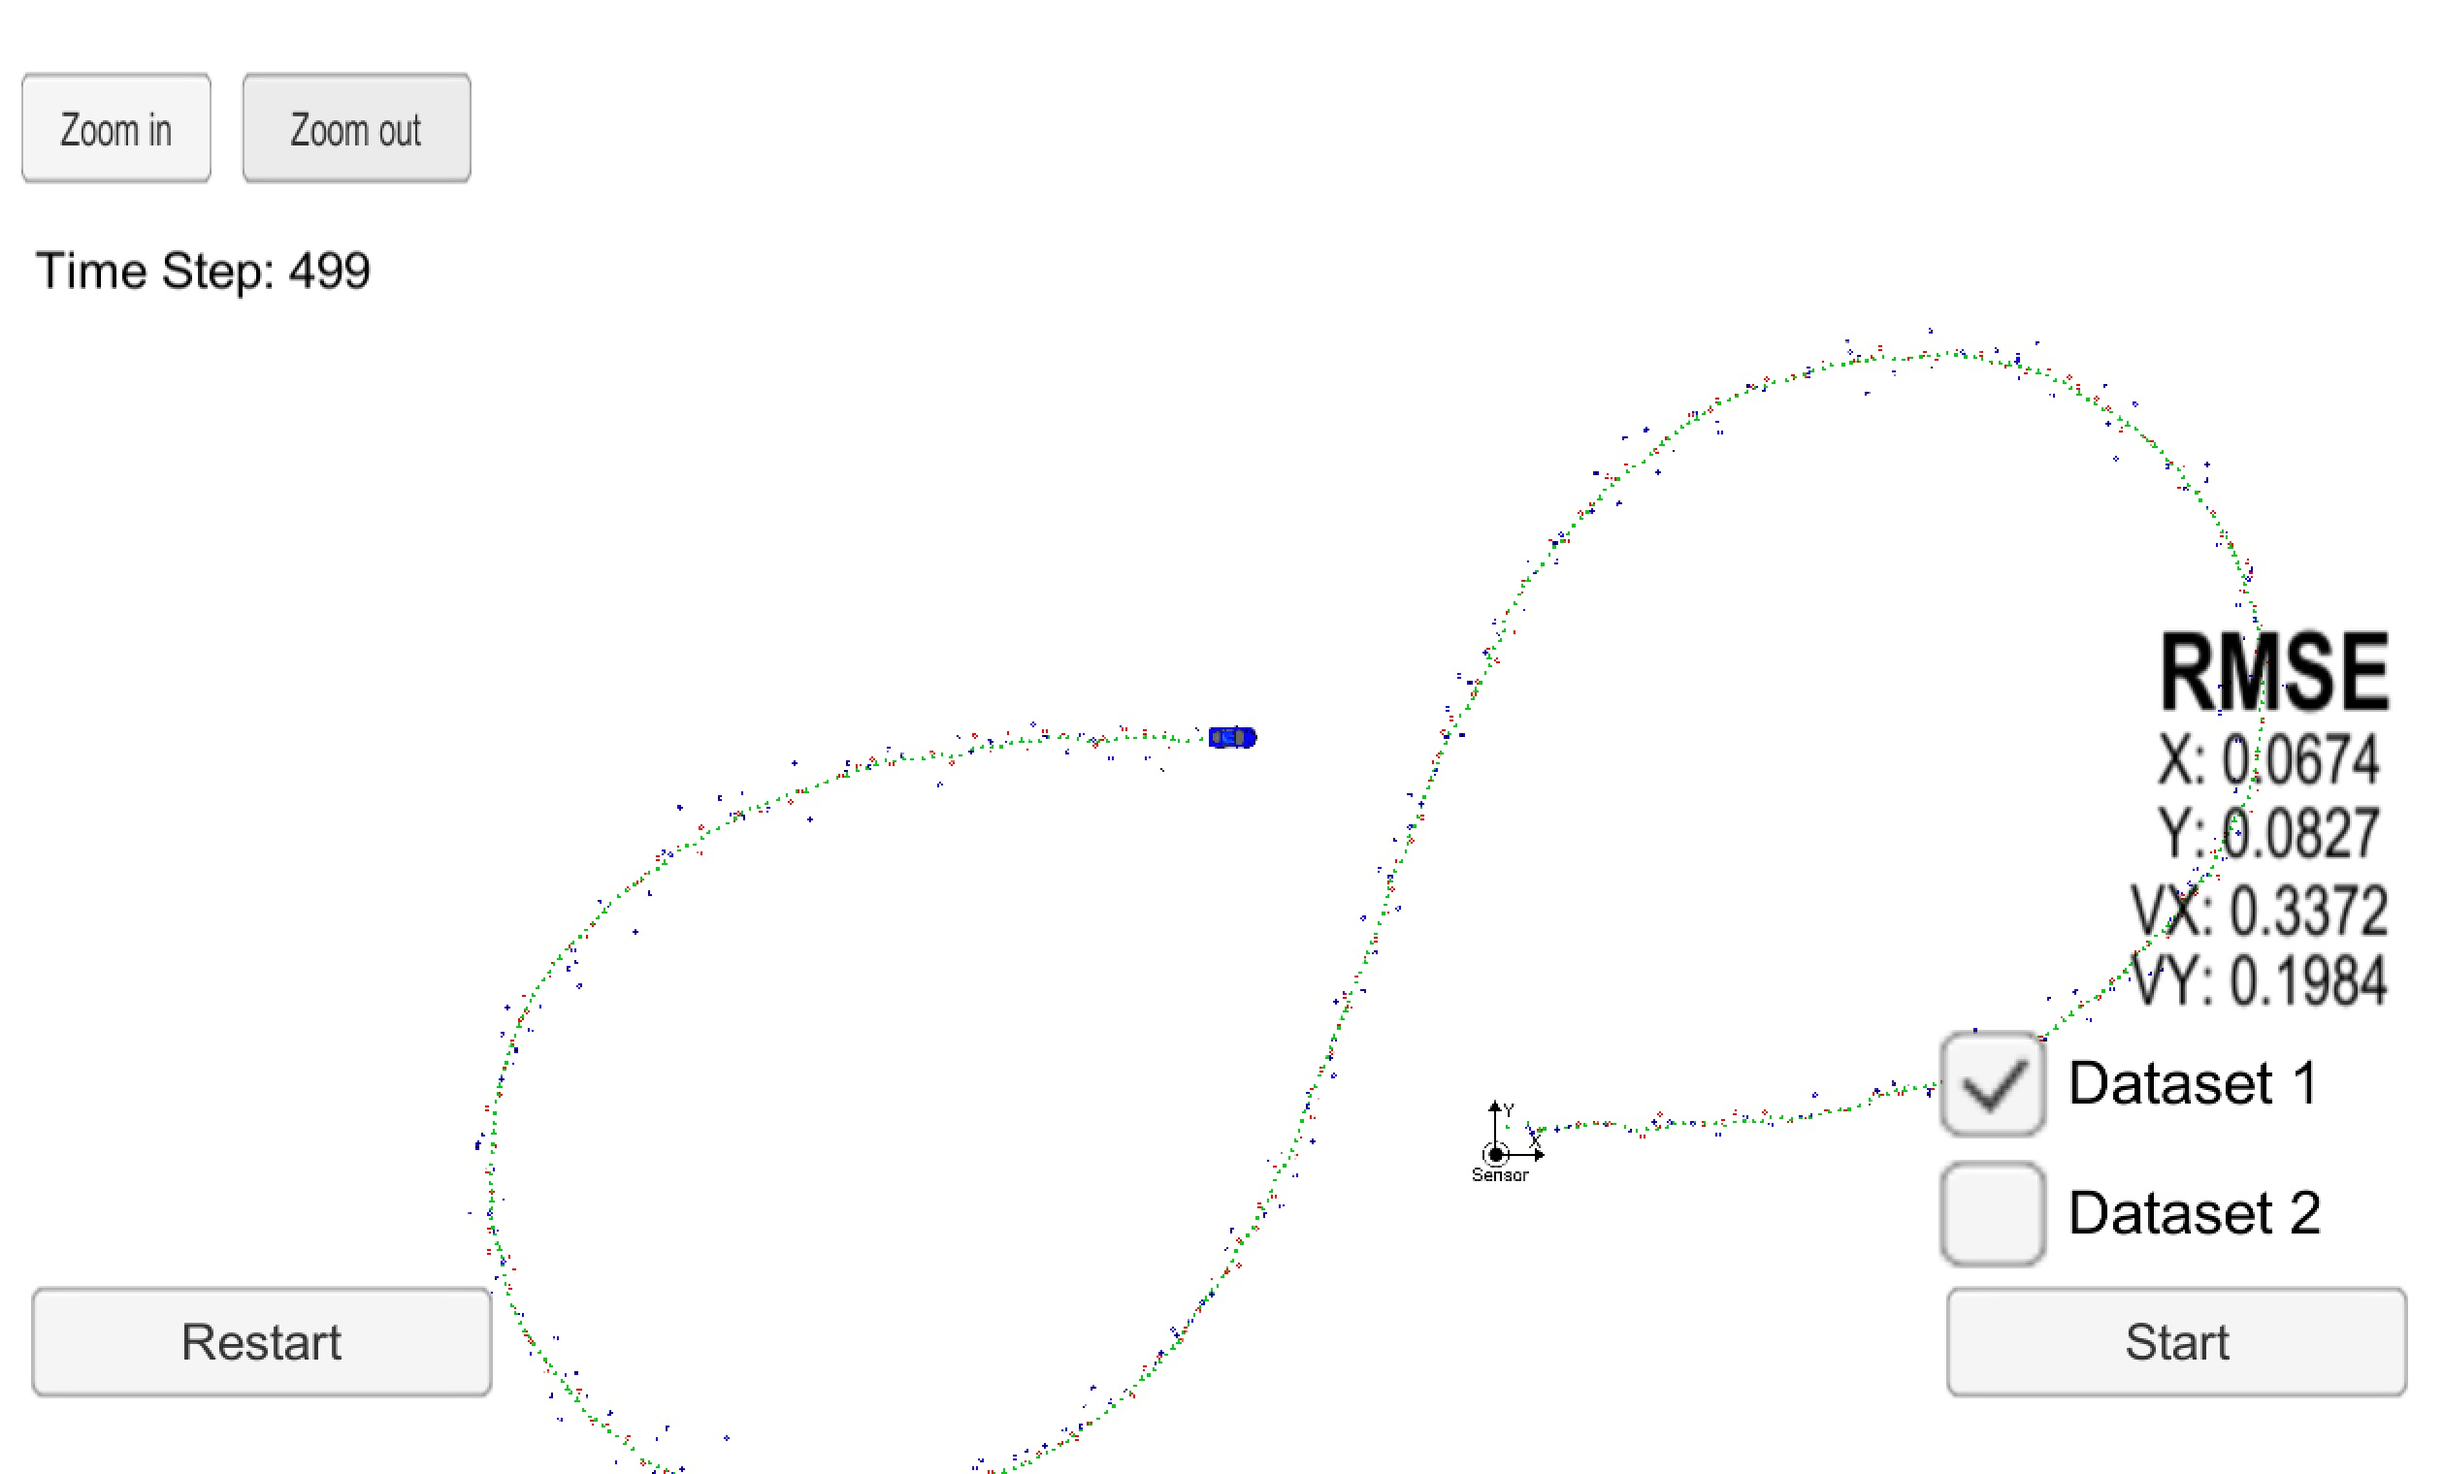
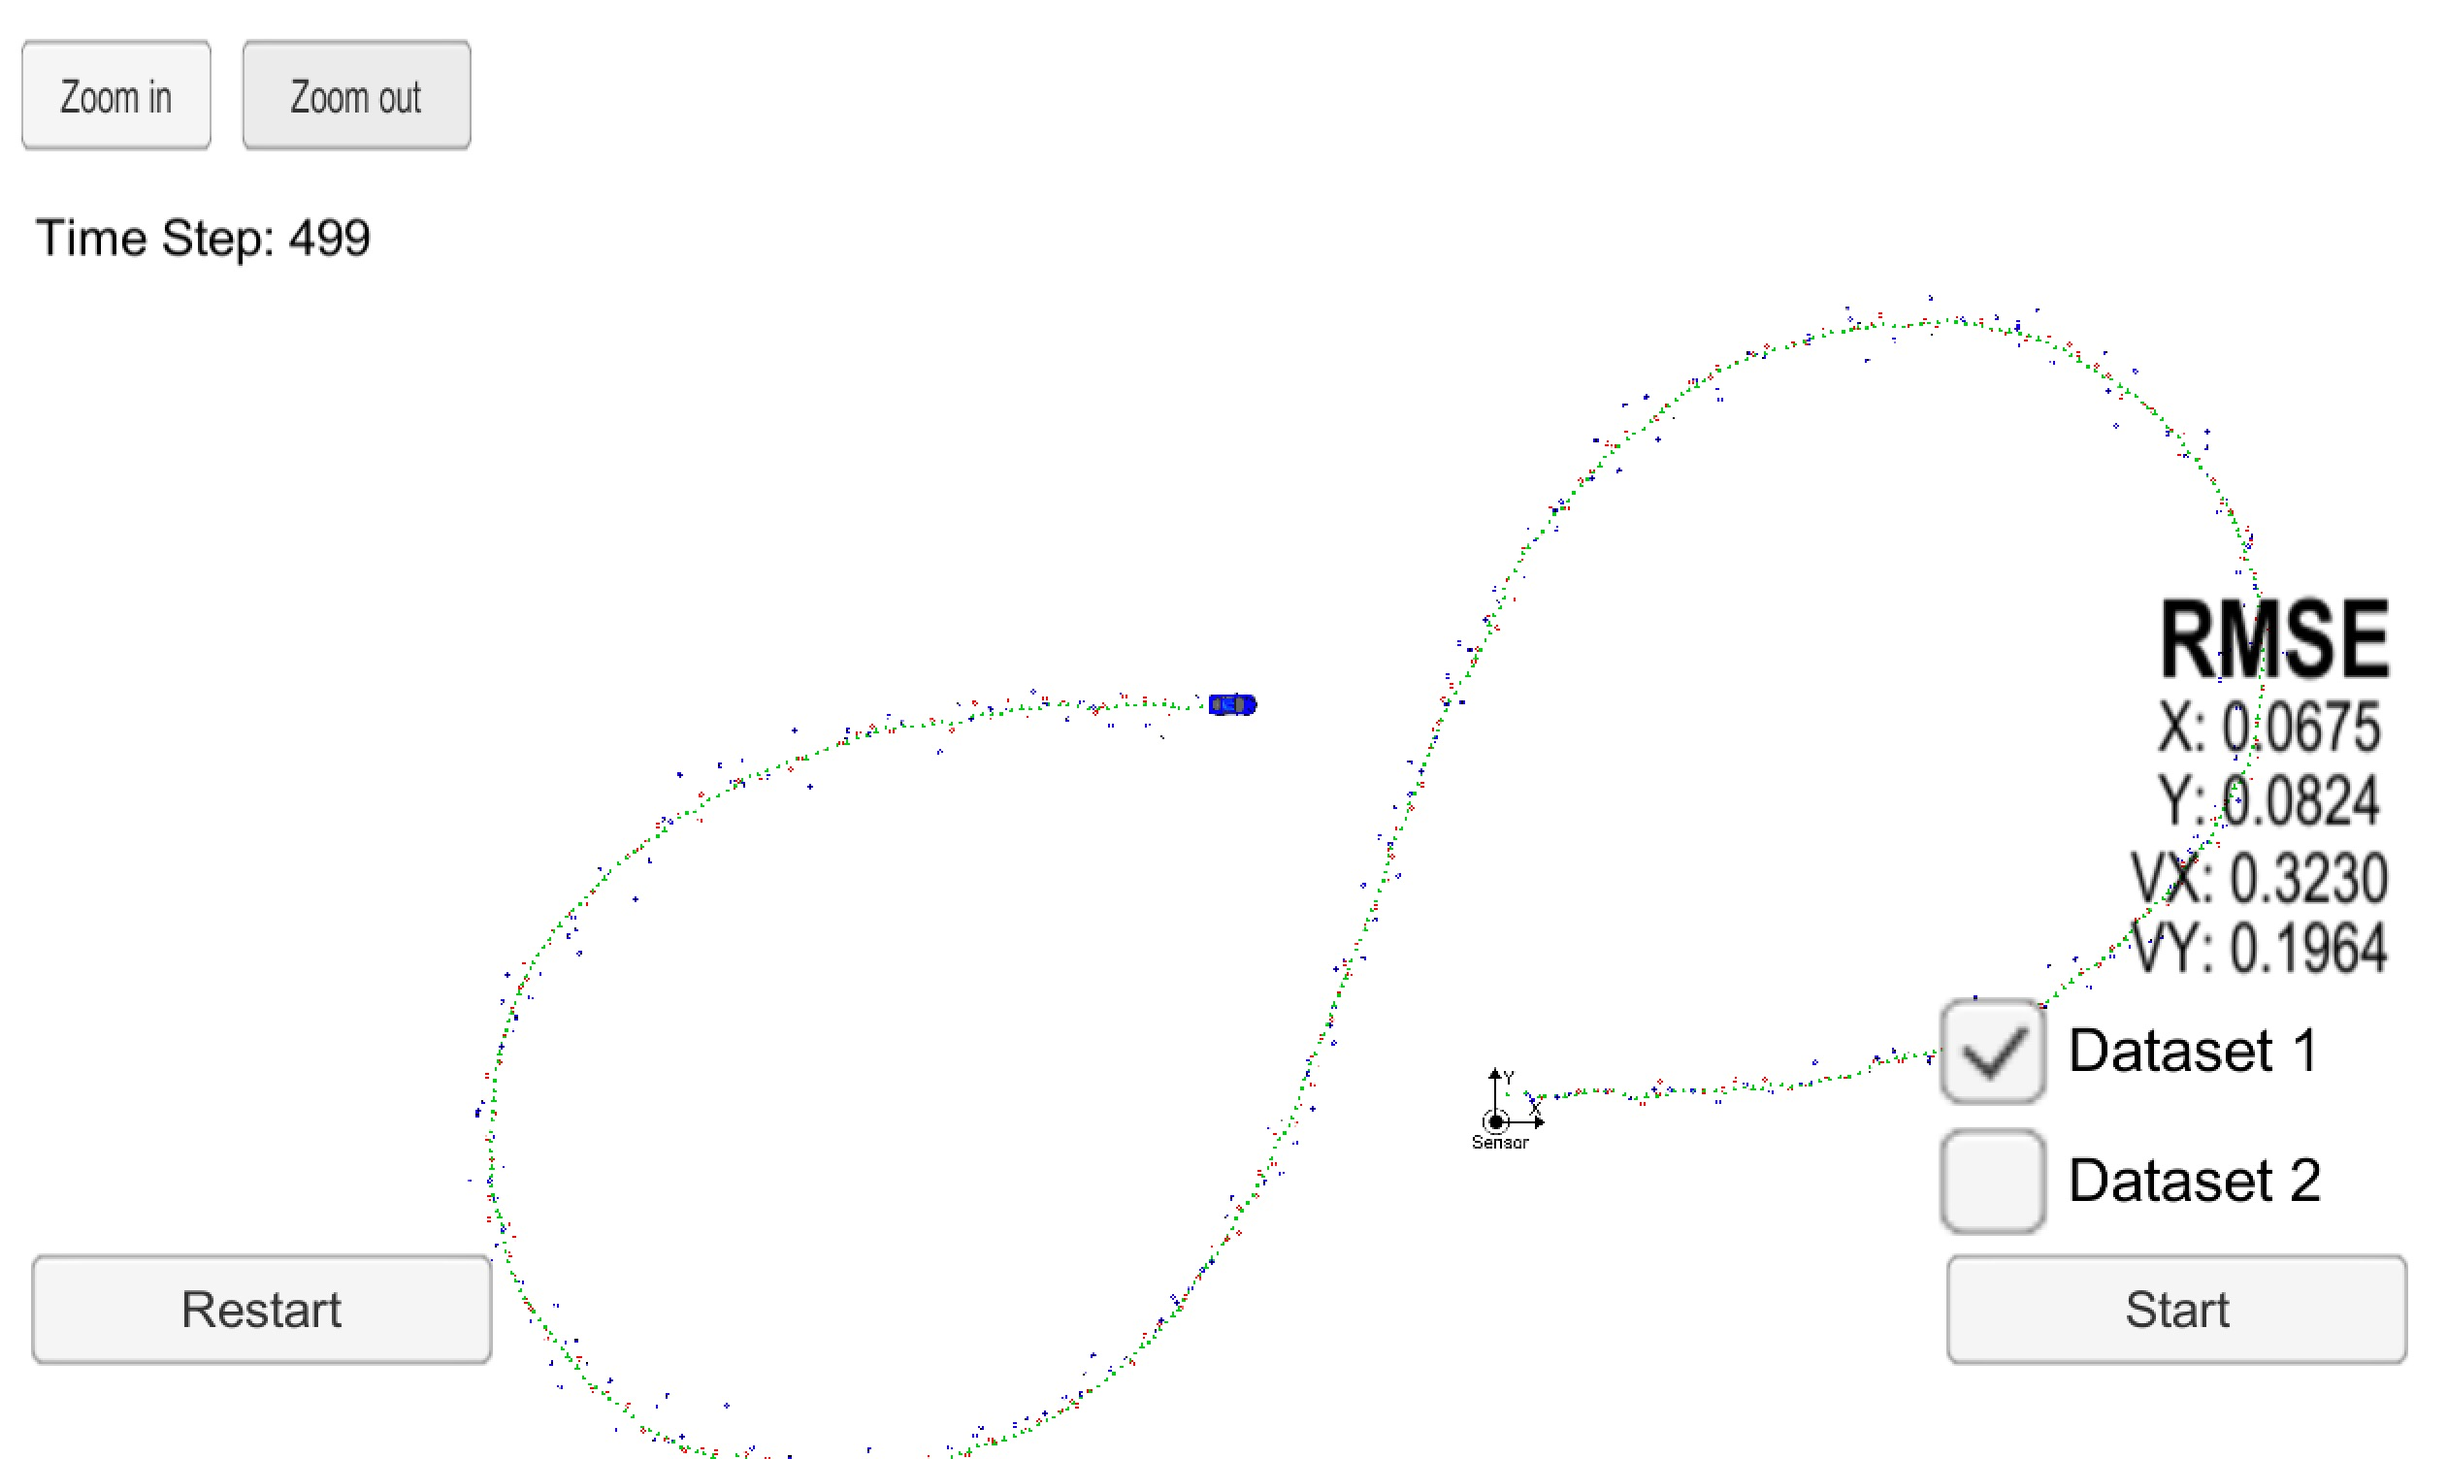
tune parameters for initial P matrix
- fix compile issue regarding "unimplemented: non-trivial designated initializers not supported"
- update documents

diff --git a/src/main.cpp b/src/main.cpp
@@ -42,15 +42,15 @@ int main() {
   vector<VectorXd> estimations;
   vector<VectorXd> ground_truth;
 
-  // NIS score
+  // For NIS score
   struct {
     int total_count;
     int above_count;
     double threshold;
-  } sensor_nis_info[MeasurementPackage::COUNT] = {
-    [MeasurementPackage::RADAR] = {0, 0, 7.815 /* df = 3 */},
-    [MeasurementPackage::LASER] = {0, 0, 5.991 /* df = 2 */}
-  };
+  } sensor_nis_info[MeasurementPackage::COUNT];
+  memset(sensor_nis_info, 0, sizeof(sensor_nis_info));
+  sensor_nis_info[MeasurementPackage::LASER].threshold = 5.991; /* df=2 */
+  sensor_nis_info[MeasurementPackage::RADAR].threshold = 7.815; /* df=3 */
 
   h.onMessage([&ukf, &estimations, &ground_truth, &sensor_nis_info]
               (uWS::WebSocket<uWS::SERVER> ws, char *data, size_t length, uWS::OpCode opCode) {
@@ -142,16 +142,10 @@ int main() {
     std::cout << msg << std::endl;
     ws.send(msg.data(), msg.length(), uWS::OpCode::TEXT);
 
-    struct {
-      string sensorName;
-    } loopCtxt[MeasurementPackage::COUNT] = {
-      {"Radar"},
-      {"Laser"}
-    };
     for (auto i = 0; i < MeasurementPackage::COUNT; i++) {
       float percent = sensor_nis_info[i].total_count == 0 ? 0 :
                       sensor_nis_info[i].above_count / (float) sensor_nis_info[i].total_count;
-      cout << loopCtxt[i].sensorName << " NIS: " << percent << endl;
+      cout << (i == MeasurementPackage::RADAR ? "Radar" : "Laser") << " NIS: " << percent << endl;
     }
   });
 

diff --git a/src/ukf.cpp b/src/ukf.cpp
@@ -54,17 +54,23 @@ UKF::~UKF() {}
 
 void UKF::InitializeMeasurement(const MeasurementPackage& m) {
   float px, py;
+  float std_px, std_py;
   switch (m.sensor_type_) {
     case MeasurementPackage::RADAR: {
-      // Convert radar from polar to cartesian coordinates. Ignore velocity informaiton.
+      // Convert radar from polar to cartesian coordinates.
+      // Ignore velocity informaiton.
       px = m.raw_measurements_[0] * sin(m.raw_measurements_[1]);
       py = m.raw_measurements_[0] * cos(m.raw_measurements_[1]);
+      std_px = std_py = 1;
       break;
     }
     case MeasurementPackage::LASER: {
       // Laser has position (px, py) but no velocity information.
+      // Position is more acurate than radar.
       px = m.raw_measurements_[0];
       py = m.raw_measurements_[1];
+      std_px = std_laspx_;
+      std_py = std_laspy_;
       break;
     }
     default:
@@ -72,11 +78,11 @@ void UKF::InitializeMeasurement(const MeasurementPackage& m) {
   }
   // Initial state vector and process covariance matrix.
   // We are only certain about location (px, py) initially.
-  // We don't know much about velocity and its direction.
+  // We don't know anything about velocity and its direction.
   // For turn rate, we assume it does not change initially.
   x_ << px, py, 0, 0, 0;
-  P_ << 1, 0, 0, 0, 0,
-        0, 1, 0, 0, 0,
+  P_ << std_px, 0, 0, 0, 0,
+        0, std_py, 0, 0, 0,
         0, 0, 10, 0, 0,
         0, 0, 0, 10, 0,
         0, 0, 0, 0, 1;

diff --git a/README.md b/README.md
@@ -34,23 +34,25 @@ If the percentage is above 5%, it means that I may have underestimated the accel
 
 The following results are achieved using `std_a=1.5 m/s^2` and `std_yawa=1 rad/s^2`.
 
+I aslo set the initial values of covariance matrix P differently for laser and radar measurements. Since laser measurement is more acurate, the corresponding entries for px and py are lower compared to if the first measurement is radar. This leads to further improvement for dataset 1 (where first measurement is laser).
+
 ### Performance evaluation
 
 <table>
 <tr><th><th>Px RMSE<th>Py RMSE<th>Vx RMSE<th>Vy RMSE
 <tr><td>EKF-Dataset1<td>0.0973<td>0.0855<td>0.4513<td>0.4399
-<tr><td><b>UKF-Dataset1<td><b>0.0674<td><b>0.0827<td><b>0.3372<td><b>0.1984
-<tr><td>Improvement<td>30.7%<td>3.2%<td>25.3%<td>54.9%
+<tr><td><b>UKF-Dataset1<td><b>0.0675<td><b>0.0824<td><b>0.3230<td><b>0.1964
+<tr><td>Improvement<td>30.6%<td>6.9%<td>28.4%<td>55.4%
 <tr><td>EKF-Dataset2<td>0.0723<td>0.0969<td>0.4137<td>0.5277
 <tr><td><b>UKF-Dataset2<td><b>0.0667<td><b>0.0683<td><b>0.3674<td><b>0.2041
 <tr><td>Improvement<td>7.7%<td>29.5%<td>11.2%<td>61.3%
 </table>
 
 #### Dataset1
-<img src="Docs/dataset1-result.jpg" width=500 border=1/>
+<img src="Docs/dataset1-result.jpg" width=500 border=3/>
 
 #### Dataset2
-<img src="Docs/dataset2-result.jpg" width=500 border=1/>
+<img src="Docs/dataset2-result.jpg" width=500 border=3/>
 
 ### Unit tests
 
